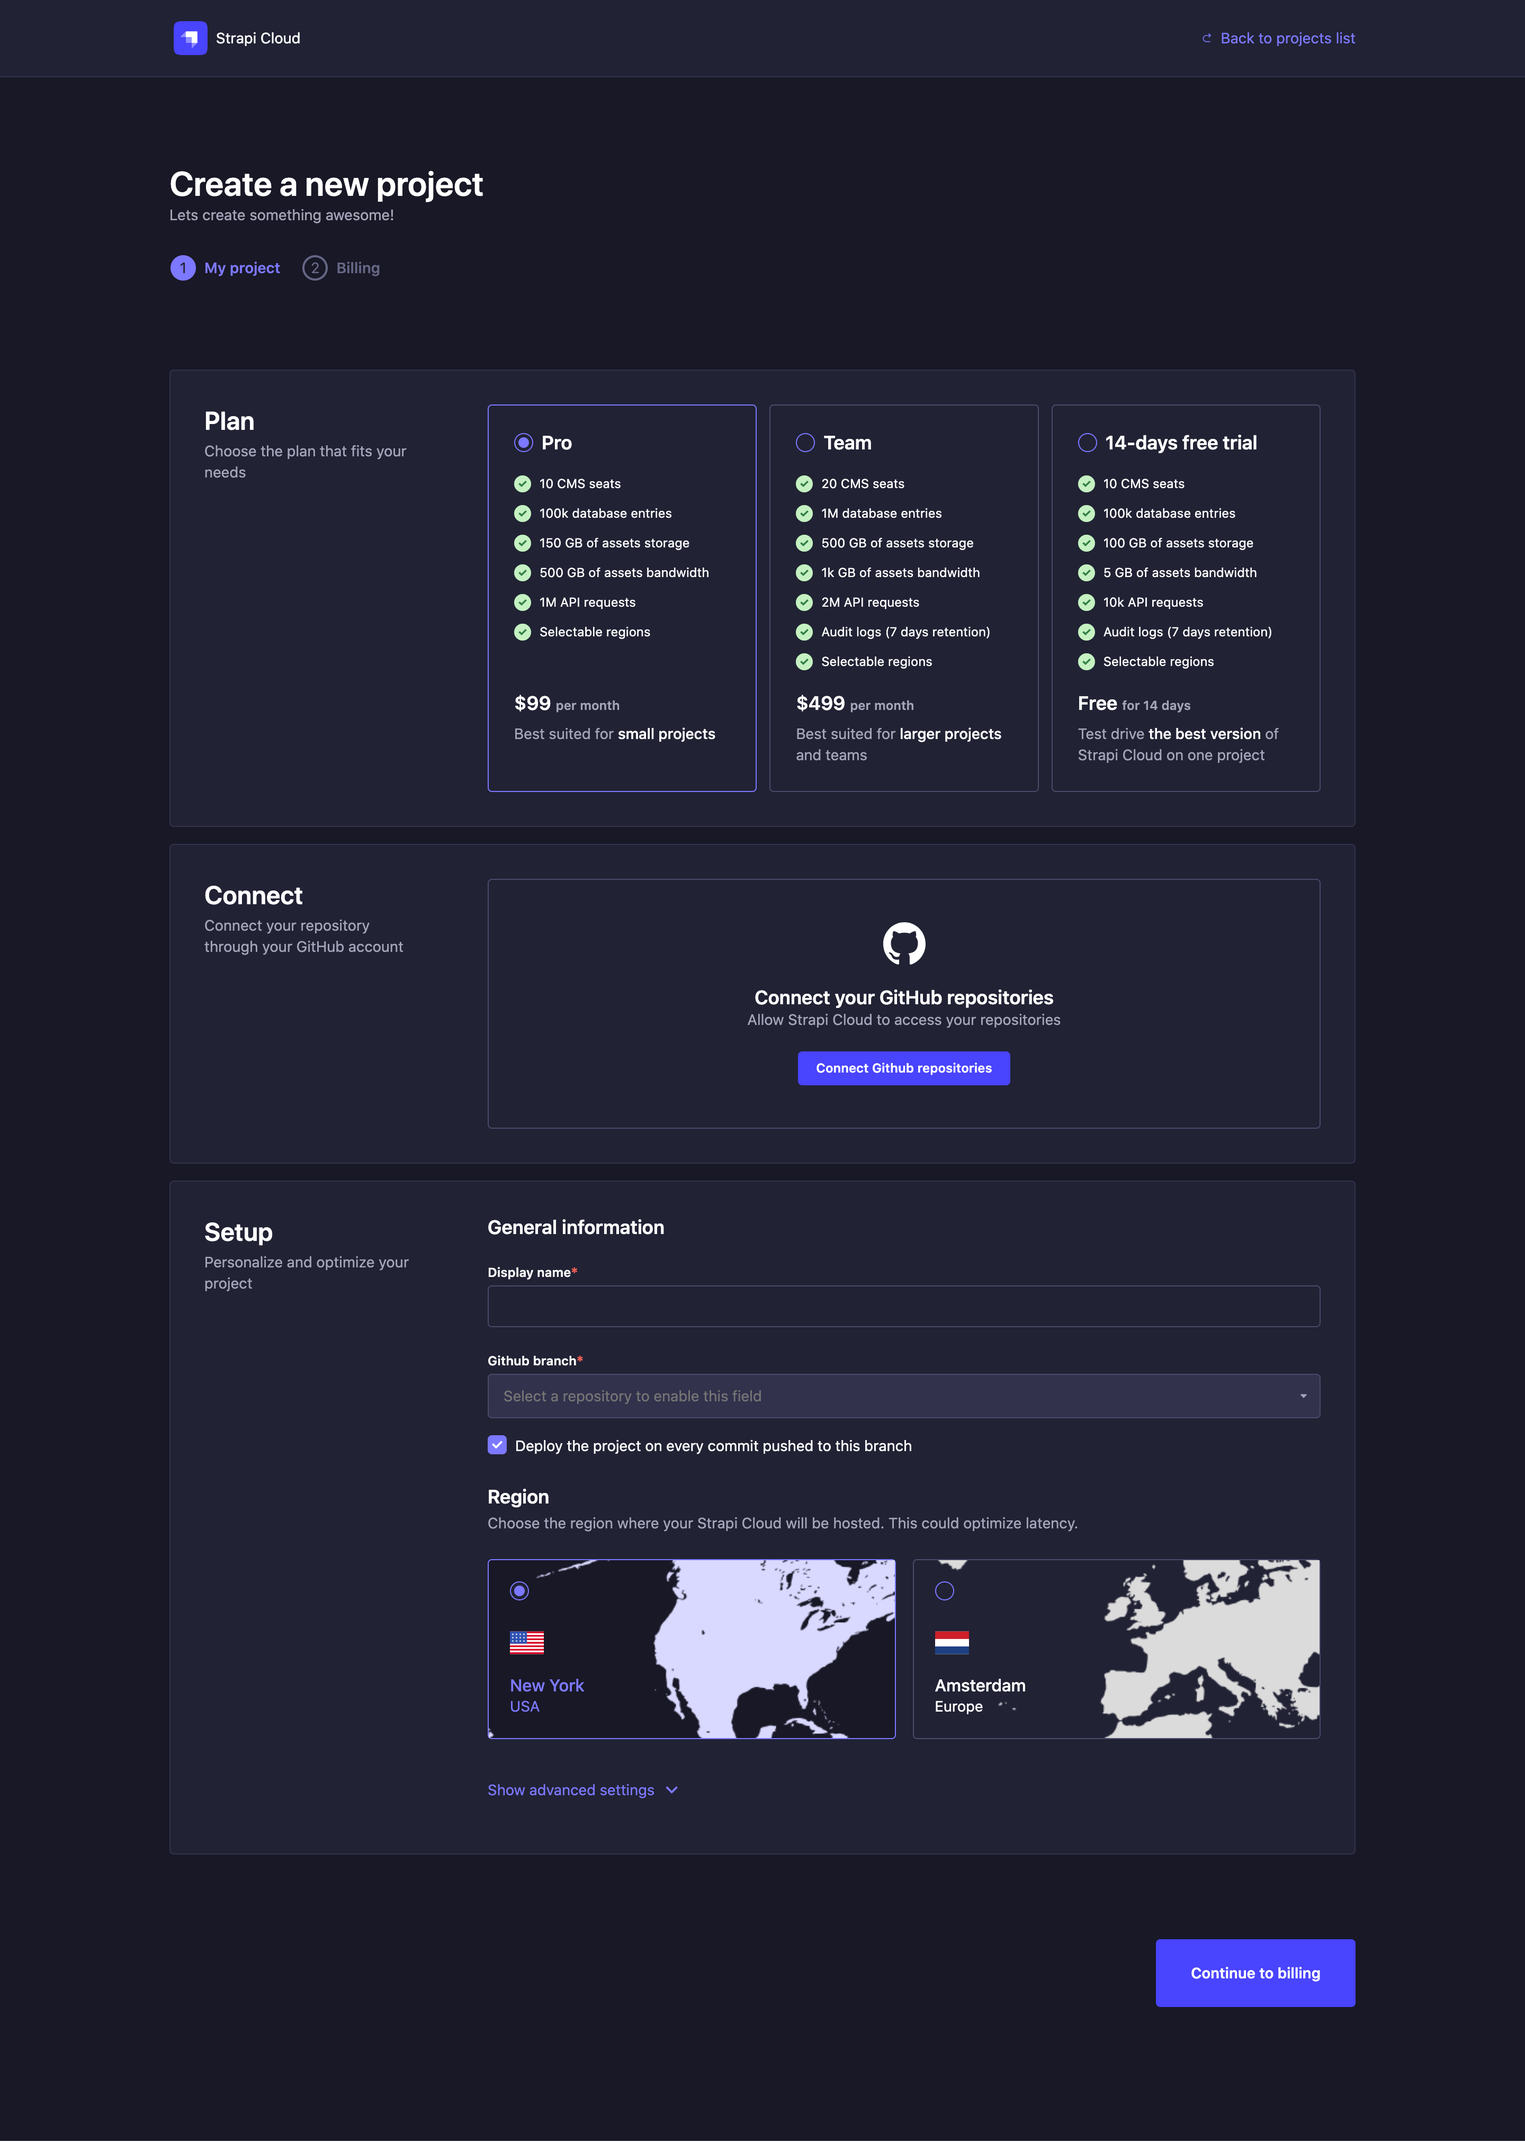
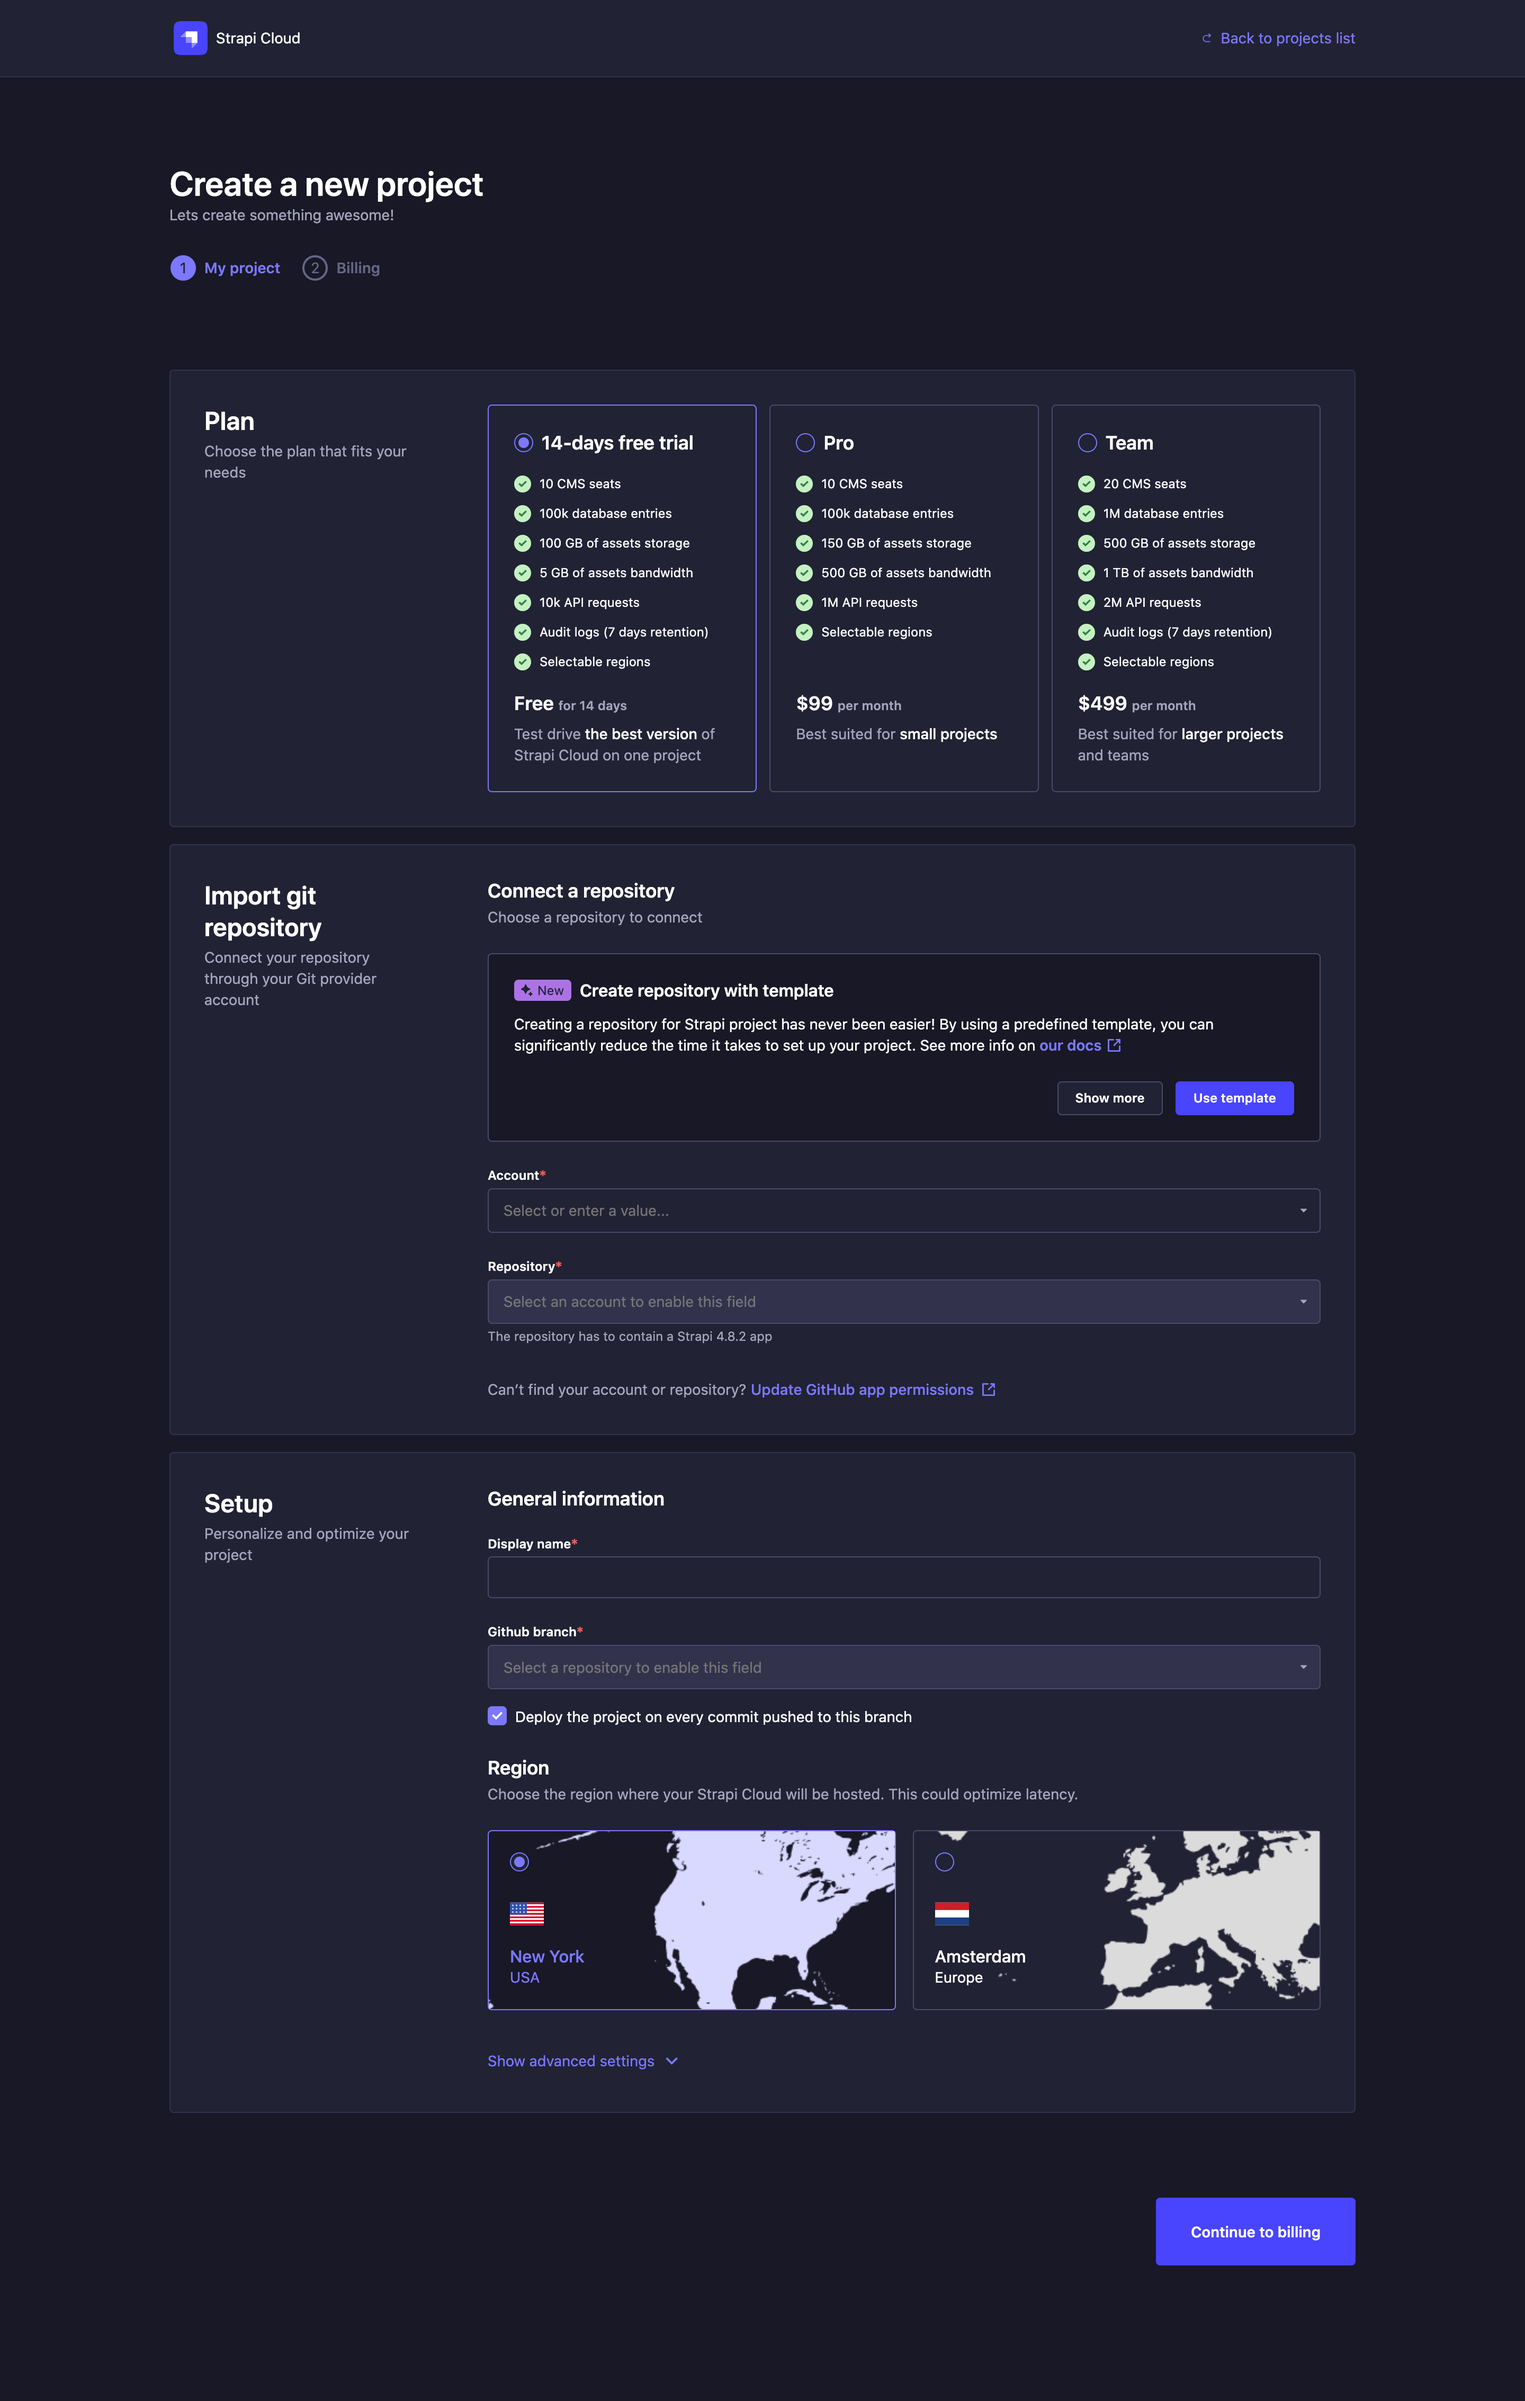
Backport #1865

diff --git a/docusaurus/docs/cloud/getting-started/deployment.md b/docusaurus/docs/cloud/getting-started/deployment.md
@@ -65,21 +65,39 @@ Before you can deploy your Strapi application on Strapi Cloud, you need to have 
     If you have already used a free trial for a previous project, the option will no longer appear in the plan selection.
     :::
 
-<!--
-2. If you selected the free trial option, you are presented with additional information about the trial.
-
-    ![Trial confirmation page](/img/assets/cloud/trial-confirmation.png)
--->
-
 4. Connect a GitHub repository to your new Strapi Cloud project.
 
-    4.a. Click on the **Connect GitHub repositories** button. You will be redirected to a GitHub modal to authorize Strapi Cloud to access your repository.
-
-    :::tip
-    Connect the GitHub account and/or organizations that own the repository or repositories you want to deploy. This can be different from the account that owns the Strapi Cloud account.
+    :::strapi Choose your path to create your new Strapi Cloud project!
+    Select one of the tabs below depending on how you wish to proceed:
+    - by using a prebuilt template and creating a new GitHub repository to discover Strapi Cloud easily and quickly *(recommended for new users and beginners)*,
+    - or by using your own, already existing GitHub repository and Strapi project.
     :::
 
-    4.b. Once Strapi Cloud is allowed permission to access the GitHub repositories, go back to the Strapi Cloud project creation interface to select an *Account* and *Repository*. 
+    <Tabs groupId="REPO-OPTIONS">
+
+    <TabItem value="TEMPLATE" label="New repo & prebuilt template ✨">
+
+    4.a. Click on the **Use template** button.
+
+    4.b. In the *Create repository with template* modal, choose:
+    
+    - the GitHub account where the repository will be created
+    - the template to use for the new project (e.g. Blog)
+
+    <ThemedImage
+    alt="Create repo with template modal"
+    width="60%"
+    sources={{
+        light: '/img/assets/cloud/template-modal.png',
+        dark: '/img/assets/cloud/template-modal_DARK.png',
+    }}
+    />
+    
+    4.c. Click on the **Create repository** button. A modal will confirm the creation of the repository.
+
+    4.d. If you have already given Strapi Cloud access to all repositories of your GitHub account, go directly to the next step. If not, you will be redirected to a GitHub modal where you will have to allow Strapi Cloud access to the newly created repository (more information in the [GitHub documentation](https://docs.github.com/en/apps/overview)).
+
+    4.e. Back in the project creation interface, select your *Account* and the *Repository* you just created.
 
     <ThemedImage
     alt="Selecting GitHub account and repository"
@@ -88,6 +106,32 @@ Before you can deploy your Strapi application on Strapi Cloud, you need to have 
         dark: '/img/assets/cloud/account-repo-selection_DARK.png',
     }}
     />
+
+    </TabItem>
+
+    <TabItem value="OWN-REPO" label="Own existing repo & Strapi project">
+
+    4.a. Click on the **Connect GitHub repositories** button.
+
+    :::tip
+    Connect the GitHub account and/or organizations that own the repository or repositories you want to deploy. This can be different from the account that owns the Strapi Cloud account.
+    :::
+
+    4.b. If you have already given Strapi Cloud access to all repositories of your GitHub account, go directly to the next step. If not, you will be redirected to a GitHub modal where you will have to allow Strapi Cloud permission to access your repositories (more information in the [GitHub documentation](https://docs.github.com/en/apps/overview)).
+
+    4.c. Back in the project creation interface, select your *Account* and a *Repository*. 
+
+    <ThemedImage
+    alt="Selecting GitHub account and repository"
+    sources={{
+        light: '/img/assets/cloud/account-repo-selection.png',
+        dark: '/img/assets/cloud/account-repo-selection_DARK.png',
+    }}
+    />
+
+    </TabItem>
+
+    </Tabs>
 
 5. Set up your Strapi Cloud project.
 
@@ -127,7 +171,7 @@ Before you can deploy your Strapi application on Strapi Cloud, you need to have 
 
 ## Setting up billing details
 
-1. Click on the **Continue to billing** button. If you chose the 14-days free trial, a dialog will open to recapitulate what this plan involves and how it works. Otherwise, you will directly be redirected to the second and final project creation interface. There you can review all your new project setup information, enter payment & billing details and receive your invoice.
+1. Click on the **Continue to billing** button. You will directly be redirected to the second and final project creation interface. There you can review all your new project setup information, enter payment & billing details and receive your invoice.
 
     <ThemedImage
     alt="Payment & Billing"
